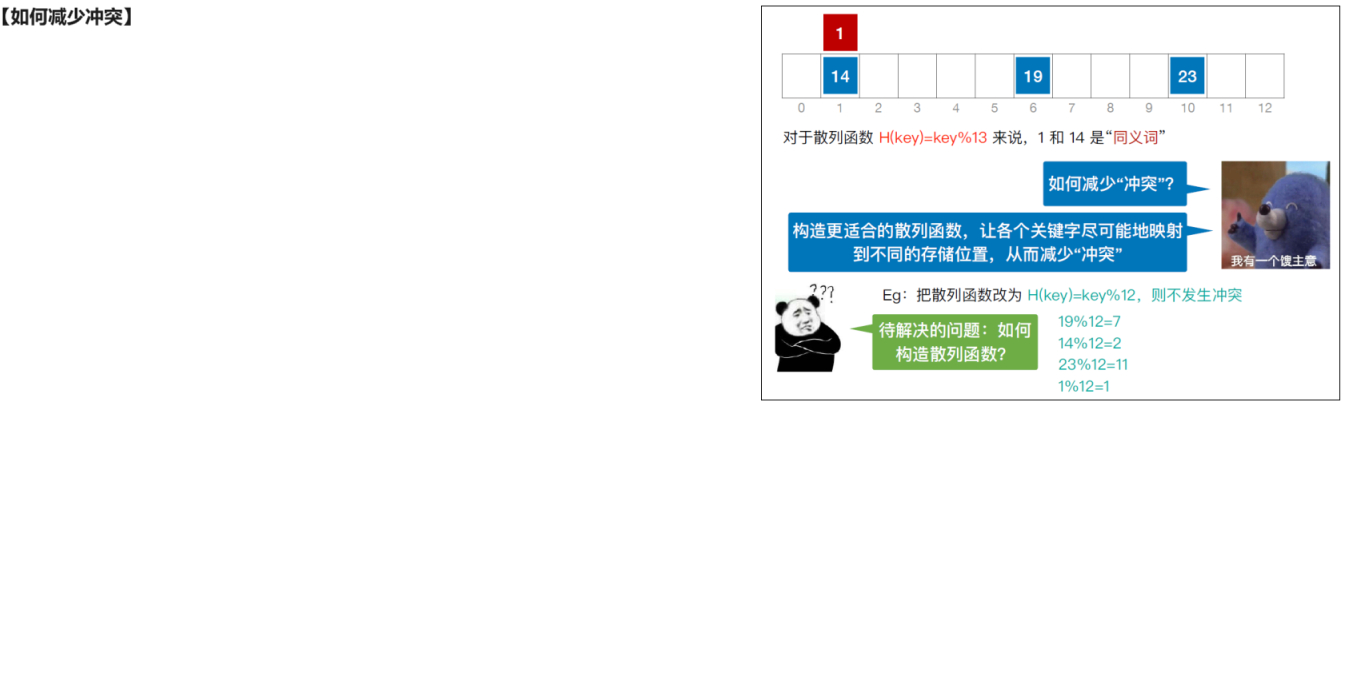
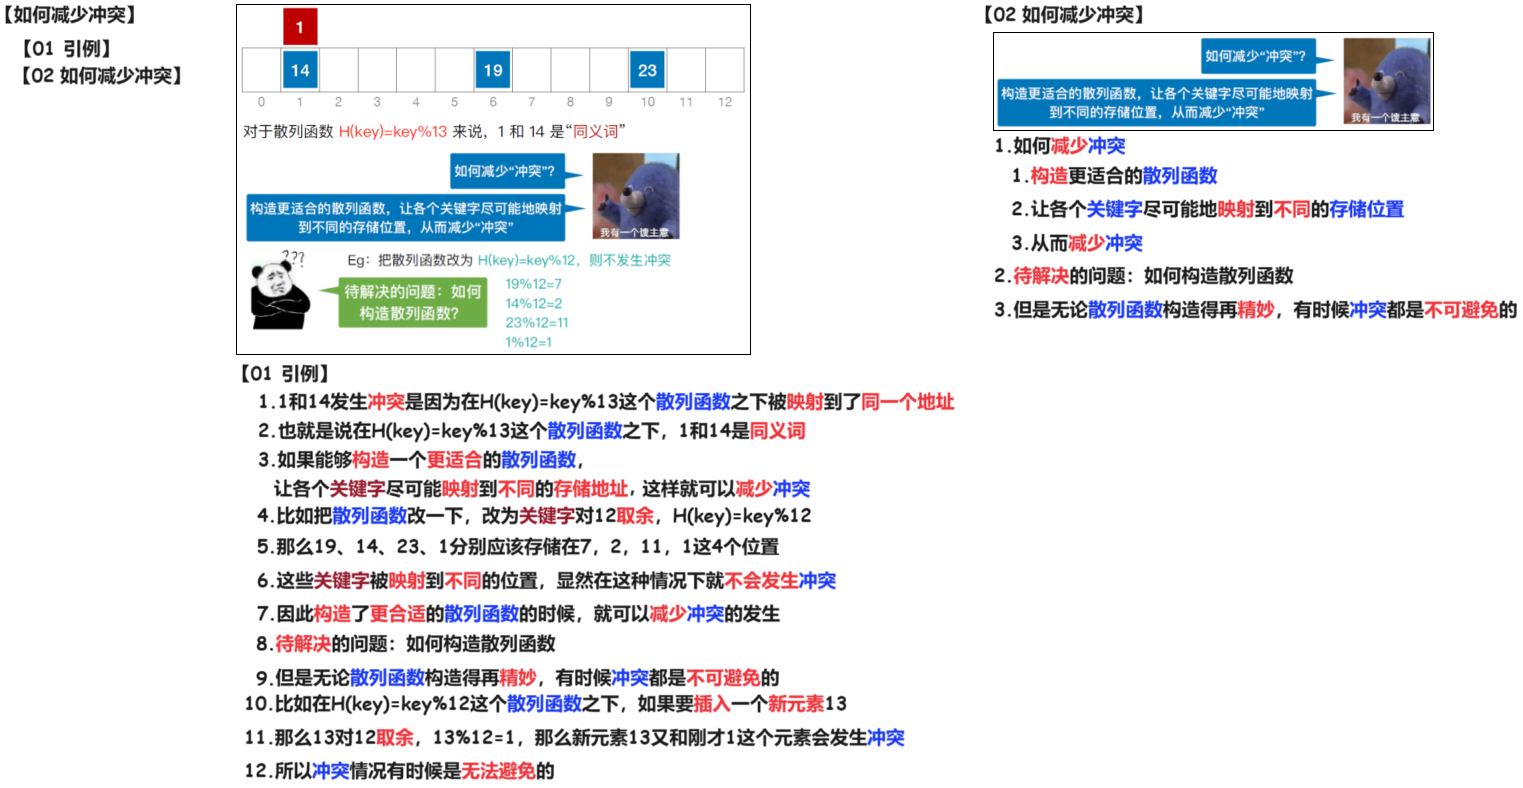
240326

diff --git a/01 初试/02 DS/02 知识点/01 王道基础/07 第七章 查找/05 散列表/01 散列表 基本概念 240326/02 Doc.md b/01 初试/02 DS/02 知识点/01 王道基础/07 第七章 查找/05 散列表/01 散列表 基本概念 240326/02 Doc.md
@@ -21,3 +21,9 @@
 
 
 # 04 如何减少冲突
+
+<img src="https://cvp.oss-cn-shanghai.aliyuncs.com/picgo/202403261904110.png" alt="image-20240326190402800" style="zoom:50%;" />
+
+
+
+# 05 若冲突无法避免 如何处理冲突
